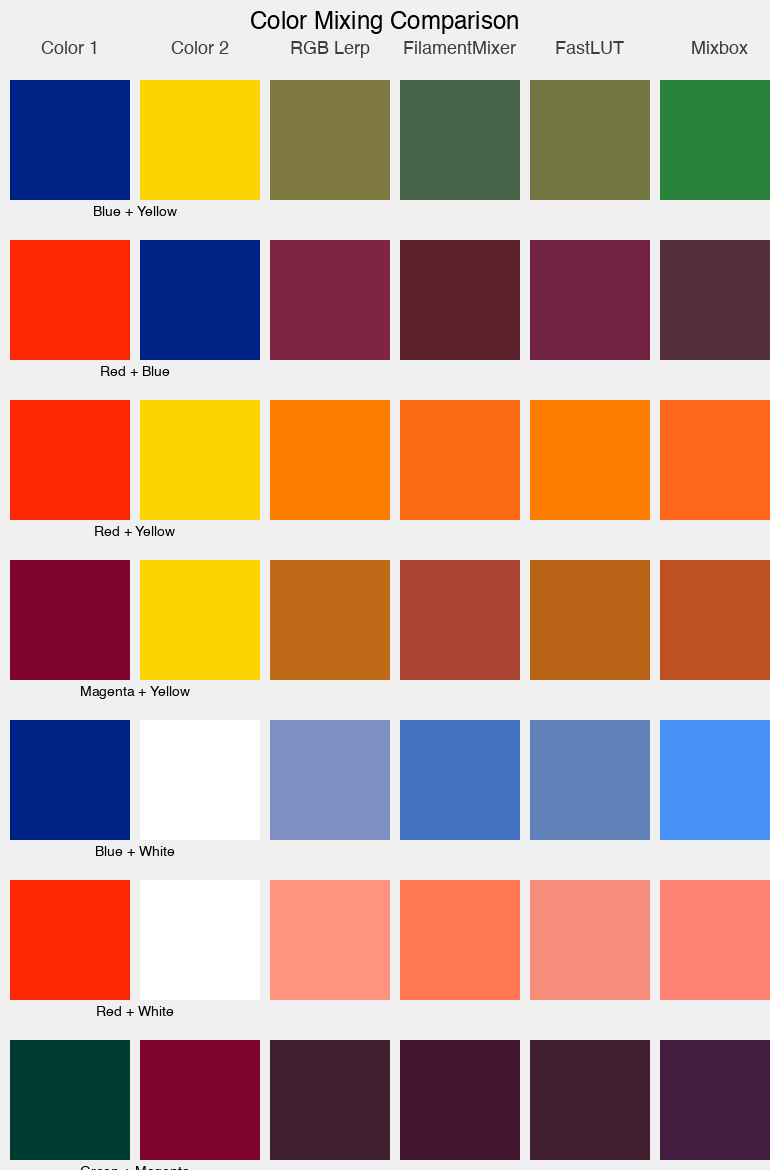
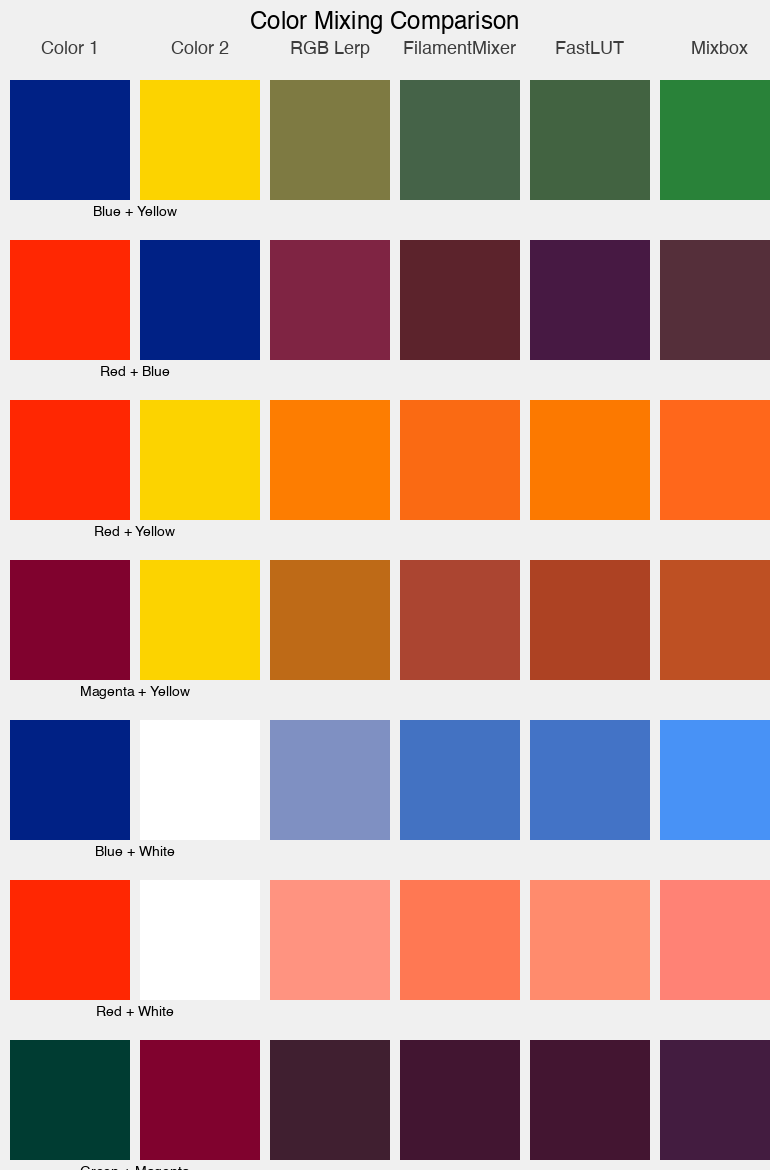
Normalize pigment concentrations to ensure they sum to exactly 1.0 in Kubelka-Munk and RGB Unmixer classes; update benchmark images.

Changed region(s): [[0.6857, 0.0615, 0.8416, 0.3077], [0.6857, 0.6154, 0.8416, 0.7385], [0.6857, 0.4615, 0.8416, 0.5846]]

diff --git a/src/filament_mixer/km_core.py b/src/filament_mixer/km_core.py
@@ -106,9 +106,11 @@ class KubelkaMunk:
         assert len(concentrations) == len(pigments), (
             "Concentration count must match pigment count"
         )
-        assert np.allclose(np.sum(concentrations), 1.0), (
+        assert np.allclose(np.sum(concentrations), 1.0, atol=1e-2), (
             f"Concentrations must sum to 1, got {np.sum(concentrations)}"
         )
+        # Normalize to exactly 1.0 to avoid drift from optimizer tolerances
+        concentrations = concentrations / np.sum(concentrations)
         assert np.all(concentrations >= 0), "Concentrations must be non-negative"
 
         K_mix = np.zeros(len(CIE_WAVELENGTHS))

diff --git a/src/filament_mixer/unmixer.py b/src/filament_mixer/unmixer.py
@@ -77,7 +77,11 @@ class RGBUnmixer:
         if not result.success:
             print(f"Warning: Unmixing failed for RGB{rgb}: {result.message}")
 
-        return result.x
+        # Normalize to ensure concentrations sum to exactly 1.0
+        x = result.x
+        x = np.clip(x, 0.0, 1.0)
+        x = x / np.sum(x)
+        return x
 
     def unmix_with_residual(
         self, rgb: Tuple[float, float, float]
